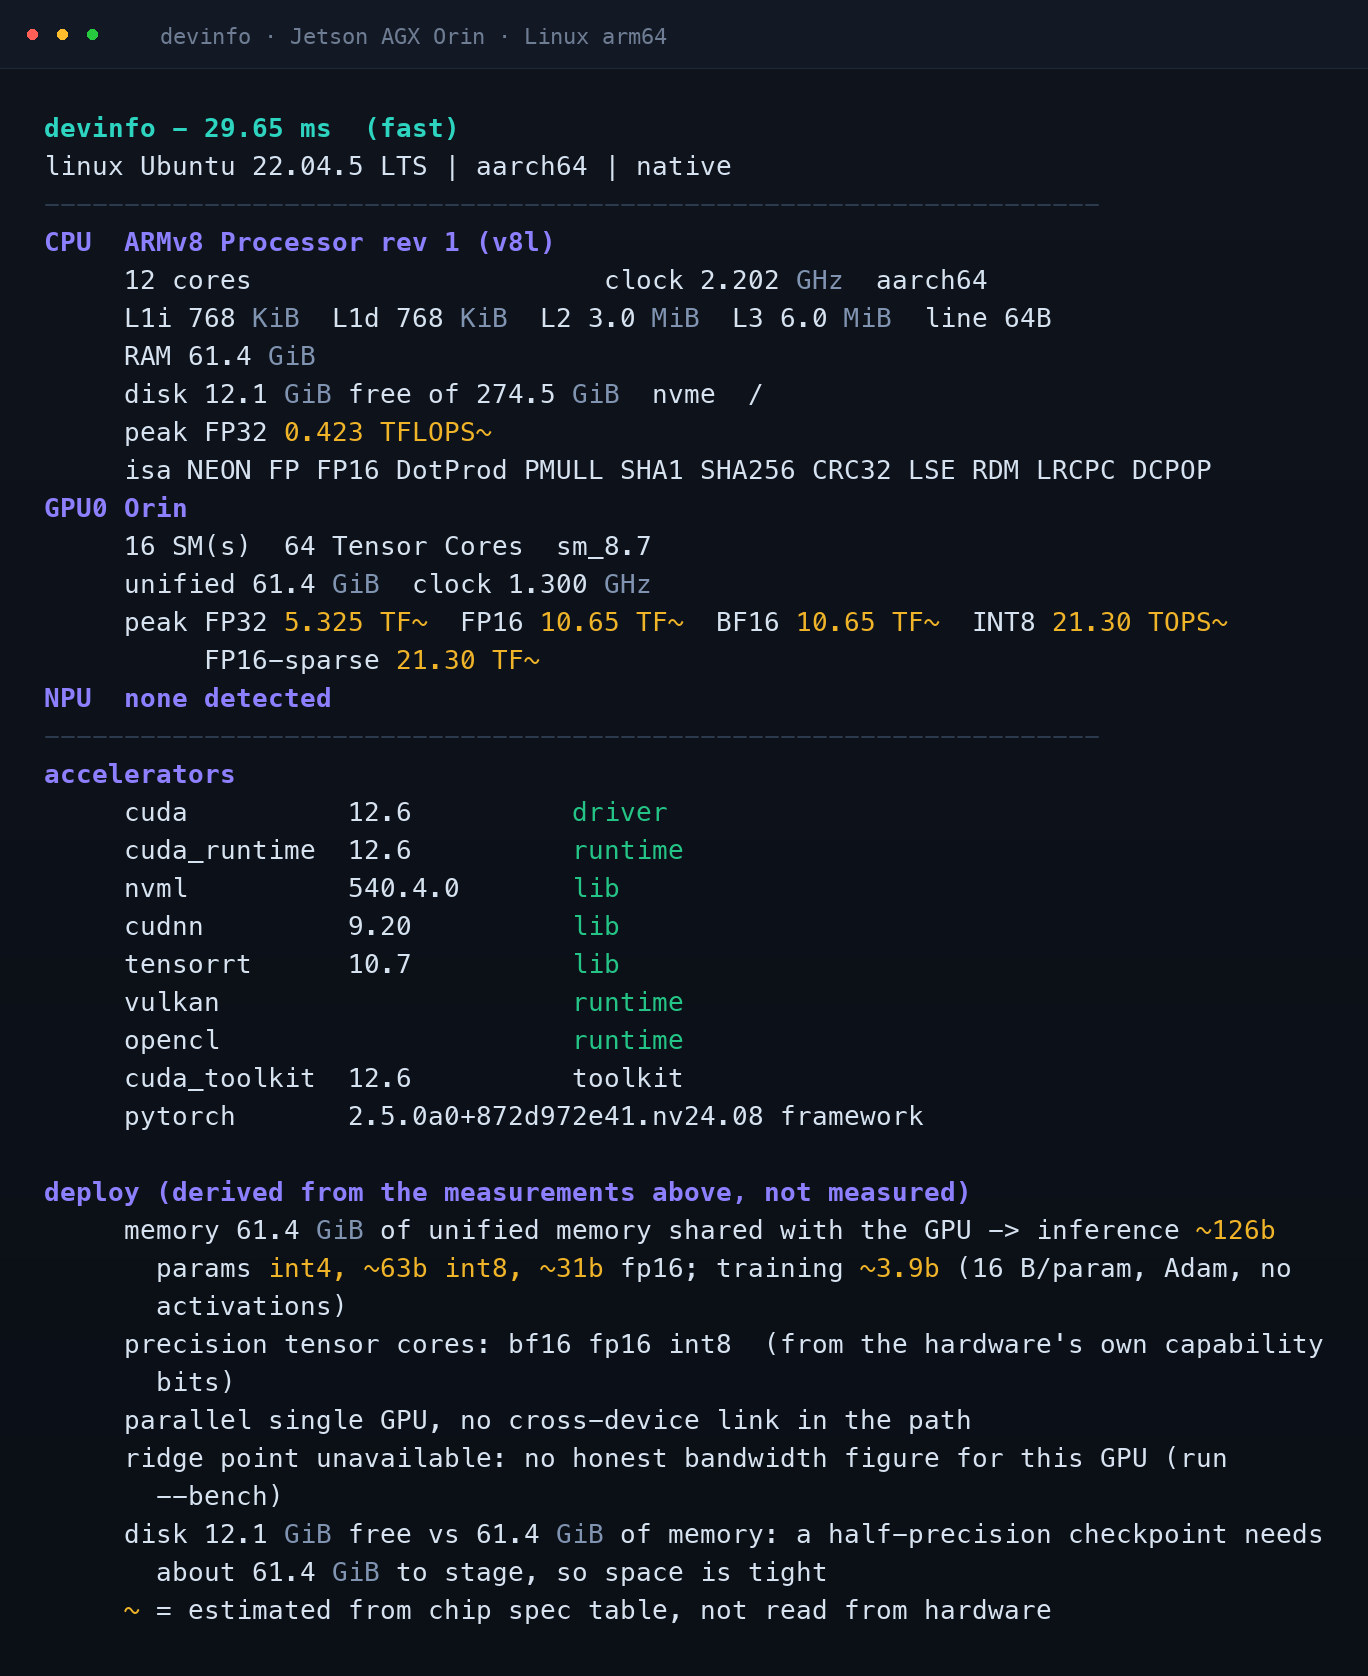
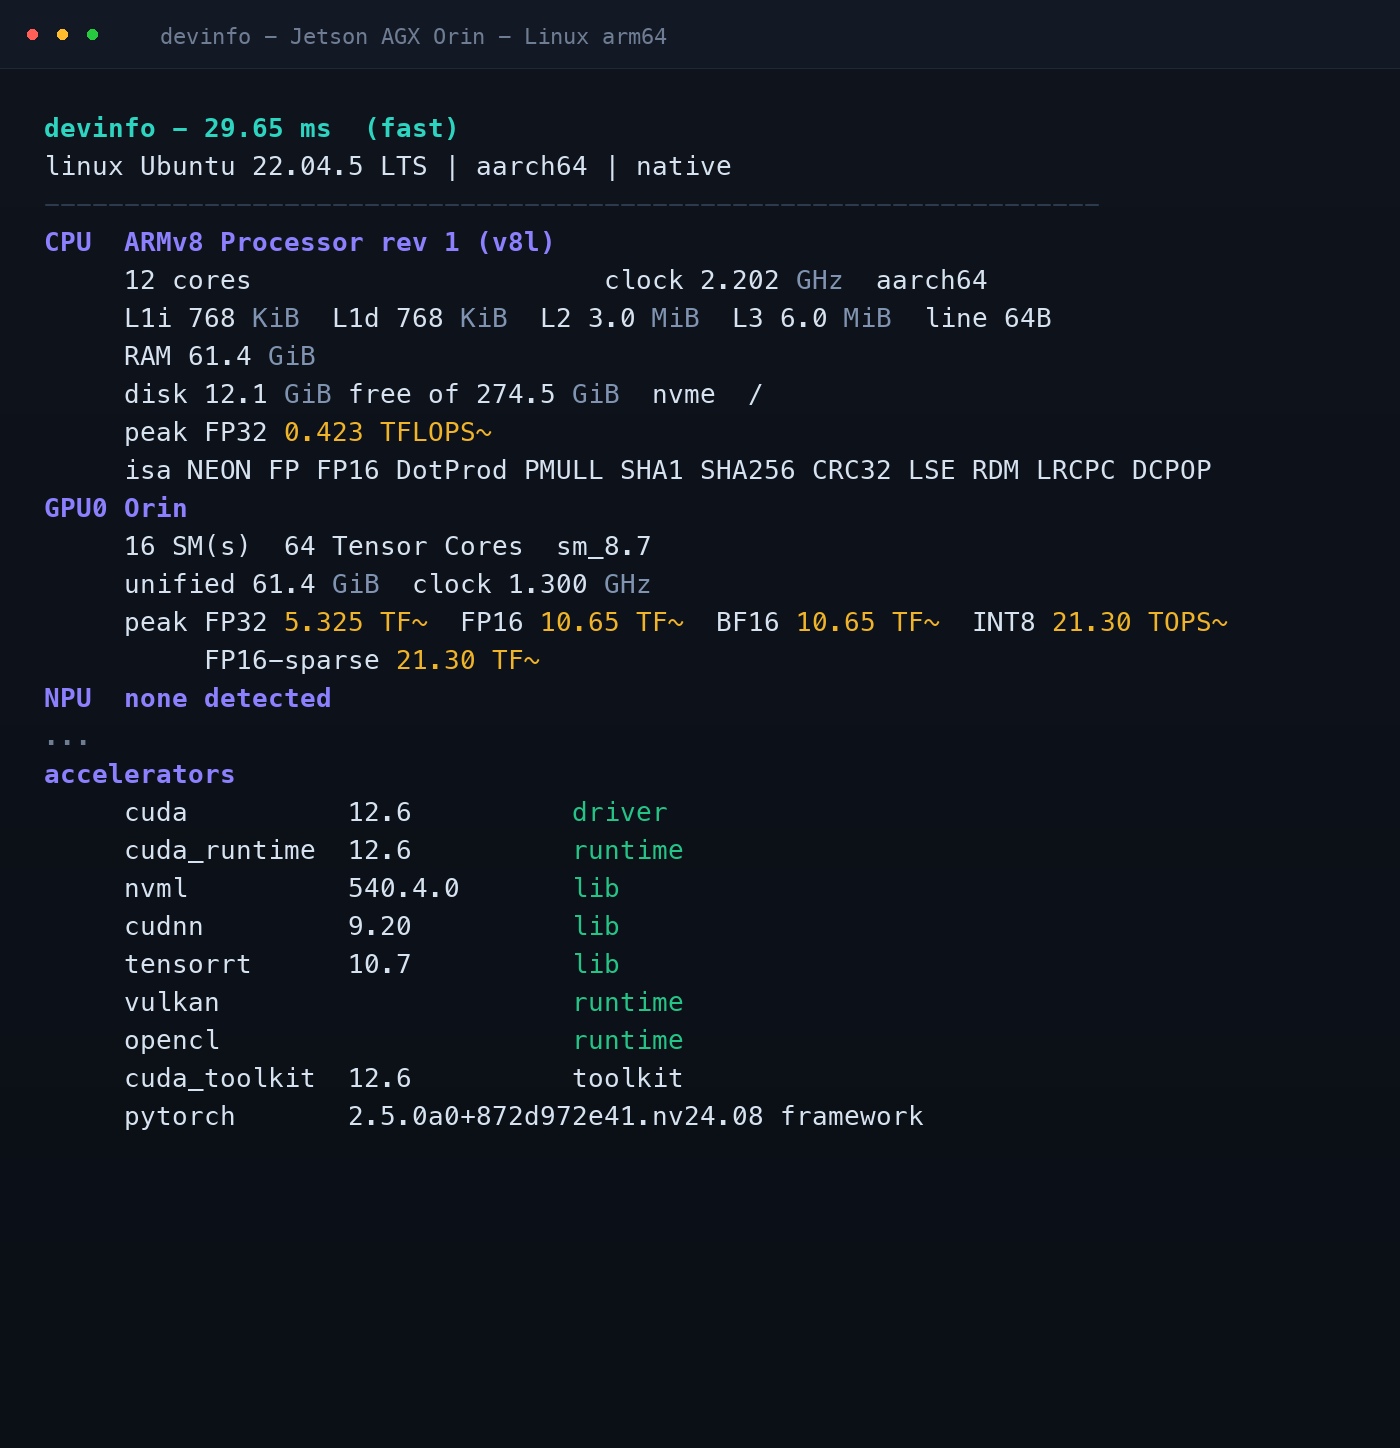
docs: three platform cards, one image size, and a Windows frame
The README led with a text table of the three platforms. It now leads with
three cards, each carrying the machine's own output above a line about how
that platform is read and what it needs installed.

Every image is 1400x1448: the renderer paints onto a fixed canvas (82
columns by 34 lines) instead of sizing the window to the text, so the cards
line up instead of running 1372px tall next to 2930px. Captures longer than
the canvas are cut with a drawn "..." row rather than silently stitched, and
the elided ranges are named in tools/render_shots.py.

There was no Windows image, and no Windows host or Wine here to make one.
assets/captures/windows-i7.txt is the report the binary wrote on a Dell
OptiPlex 7090, recovered from git history - real output, but from the first
round, before the six fixes results.html lists: it still labels amdhip64.dll
as "rocm" where src/core.cpp now emits "hip", and misses SSE4.2. That box
has not been re-tested, so the frame is used and labelled under the cards,
not quietly replaced or quietly dropped.

The Jetson frame stays out of the README - four machines in a three-card row
is a worse read - but the site keeps it, and the site gains the Windows tab
and the screenshot its OptiPlex record never had.

diff --git a/site/index.html b/site/index.html
@@ -121,7 +121,7 @@
   <section class="section wrap" id="output">
     <div class="section-head reveal">
       <span class="eyebrow">REAL OUTPUT</span>
-      <h2 data-zh="真实运行截图，来自三台不同架构的机器" data-en="Real output, from three different architectures"></h2>
+      <h2 data-zh="真实运行截图，来自四台真机" data-en="Real output, from four real machines"></h2>
       <p data-zh="下面每一张都是程序真实 stdout 的渲染，文字逐字节来自采集文件，没有手写内容。带 ~ 的数字是推算值，统一标成琥珀色。" data-en="Each frame below is a render of real stdout, byte for byte from the captured file -- nothing is hand-written. Derived numbers carry a ~ and are painted amber."></p>
     </div>
     <div class="screen-tabs reveal">
@@ -134,6 +134,9 @@
       <button data-screen="assets/jetson-orin.png" data-url="Jetson AGX Orin · Linux arm64"
         data-caption-zh="Jetson AGX Orin · 12 核 · 16 SM / 64 Tensor Core · 统一内存 61 GiB" data-caption-en="Jetson AGX Orin · 12 cores · 16 SM / 64 tensor cores · 61 GiB unified"
         data-zh="Jetson · Orin" data-en="Jetson · Orin"></button>
+      <button data-screen="assets/windows-i7.png" data-url="Dell OptiPlex 7090 · Windows 11 · x86_64"
+        data-caption-zh="Dell OptiPlex 7090 · i7-11700 8C/16T · RX 640 + UHD 750 · 第一轮输出，修复前" data-caption-en="Dell OptiPlex 7090 · i7-11700 8C/16T · RX 640 + UHD 750 · first round, before the fixes"
+        data-zh="Windows · i7" data-en="Windows · i7"></button>
     </div>
     <div class="screen-stage reveal delay-1">
       <div class="term-shot">

diff --git a/site/results.html b/site/results.html
@@ -346,7 +346,11 @@ deploy (derived from the measurements above, not measured)
 <div><dt>加速栈</dt><dd>AMD HIP 5.2（amdhip64.dll）· 无 CUDA</dd></div></dl>
         <div class="machine-side">
           <div class="deploy-box"><h3>部署推导（derive，不是实测）</h3><dl class="facts small"><div><dt>异构 GPU</dt><dd>两张不同型号的卡不能合并成内存池，各自跑各自的作业</dd></div></dl></div>
-          
+
+      <figure class="shot-figure">
+        <button class="shot" data-full="assets/windows-i7.png"><img src="assets/windows-i7.png" alt="devinfo on the Dell OptiPlex 7090" loading="lazy"></button>
+        <figcaption>第一轮输出渲染 · 修复前 · 点击放大</figcaption>
+      </figure>
         </div>
       </div>
       <p class="machine-note">这台机器跑出了第一轮实机测试里的六个问题，全部已修：SSE4.2 漏报、CPU 峰值只有一半、异构显存被错误加总、训练容量显示 ~0b、异构并行措辞、HIP 被误标成 ROCm 版本号。修复后尚未在这台机器上复测——这一格留空，不填推测值。</p>

diff --git a/tools/render_shots.py b/tools/render_shots.py
@@ -5,6 +5,27 @@ The text is the real stdout of the binary, byte for byte -- this script only
 paints it. Anything that is not in the capture file does not appear in the
 image, so the screenshots cannot drift away from what the tool prints.
 
+Where the captures came from:
+
+  macos-m5.txt      Apple M5, macOS 26.6, arm64, this laptop
+  linux-8x4090.txt  2x EPYC 7402 + 8x RTX 4090, Ubuntu 22.04, x86_64
+  jetson-orin.txt   Jetson AGX Orin 64GB, L4T R36.4, aarch64
+  windows-i7.txt    i7-11700, Windows 10.0.26200, x86_64. This one was
+                    recovered from git history: it is the report the binary
+                    wrote to devinfo-report.txt when it was double-clicked on
+                    that machine, not a transcription.
+
+                    It is the FIRST round of testing on that machine, before
+                    the six fixes results.html lists, and it shows two of them:
+                    amdhip64.dll is still labelled "rocm" there, and SSE4.1 /
+                    SSE4.2 are missing from the ISA line. src/core.cpp now
+                    emits "hip". The frame is kept because that box has not
+                    been re-tested, and the README says so under the cards.
+
+Every image is the same size, so the README cards line up. Long captures are
+cut with a visible "..." row; the cut is drawn, not hidden, and the elided
+range is named in JOBS below.
+
     python3 tools/render_shots.py
 
 Reads  assets/captures/*.txt
@@ -25,6 +46,8 @@ FSIZE = 13
 PAD = 22
 TITLEBAR = 34
 LINE_H = 19
+LINES = 34           # fixed content height, in lines, for every image
+COLS = 82            # fixed content width, in characters
 
 BG = (11, 15, 22)
 BG_TOP = (15, 20, 29)
@@ -50,6 +73,8 @@ def load_font(size, bold=False):
 def classify(line):
     """Return (kind, text) where kind drives the base colour of the line."""
     s = line.rstrip("\n")
+    if s.strip() == "...":
+        return "cut", s
     if not s.strip():
         return "blank", s
     if re.match(r"^devinfo - ", s):
@@ -63,8 +88,6 @@ def classify(line):
         return "head", s
     if s.lstrip().startswith("-- not present"):
         return "absent", s
-    if re.match(r"^\s+\w", s) or s.startswith("     "):
-        return "body", s
     return "body", s
 
 
@@ -76,7 +99,7 @@ UNIT = re.compile(
 )
 
 
-def draw_line(d, x, y, text, kind, f_reg, f_bold, width):
+def draw_line(d, x, y, text, kind, f_reg, f_bold):
     base = {
         "banner": TEAL,
         "rule": (45, 58, 78),
@@ -84,13 +107,11 @@ def draw_line(d, x, y, text, kind, f_reg, f_bold, width):
         "absent": RED,
         "body": FG,
         "blank": FG,
+        "cut": DIM,
     }.get(kind, FG)
 
-    if kind == "head":
-        d.text((x, y), text, font=f_bold, fill=ACCENT)
-        return
-    if kind == "banner":
-        d.text((x, y), text, font=f_bold, fill=TEAL)
+    if kind in ("head", "banner", "cut"):
+        d.text((x, y), text, font=f_bold if kind != "cut" else f_reg, fill=base)
         return
 
     # Per-token colouring. The tool marks every derived number with a trailing
@@ -127,22 +148,38 @@ def draw_line(d, x, y, text, kind, f_reg, f_bold, width):
         cx += d.textlength(tok, font=f_reg)
 
 
-def render(src: pathlib.Path, title: str, out: pathlib.Path, max_lines=None):
-    raw = src.read_text(encoding="utf-8", errors="replace").splitlines()
-    raw = [ln for ln in raw if not ln.startswith("bash: warning:")]
-    if max_lines and len(raw) > max_lines:
-        raw = raw[:max_lines]
+def select(lines, keep):
+    """Apply the keep ranges, inserting a visible cut between them.
+
+    keep is a list of (first, last) 1-based inclusive ranges, or None for the
+    whole capture. Cutting is an editorial act, so it is drawn as "..." rather
+    than silently stitched together.
+    """
+    if not keep:
+        return lines[:LINES]
+    out = []
+    for n, (a, b) in enumerate(keep):
+        if n:
+            out.append("...")
+        out.extend(lines[a - 1:b])
+    return out[:LINES]
+
+
+def render(src, title, out, chrome="mac", keep=None):
+    raw = [ln for ln in src.read_text(encoding="utf-8", errors="replace").splitlines()
+           if not ln.startswith("bash: warning:")]
+    raw = select(raw, keep)
 
     f_reg = load_font(FSIZE * SCALE)
     f_bold = load_font(FSIZE * SCALE, bold=True)
     f_title = load_font((FSIZE - 2) * SCALE)
 
+    # Fixed canvas: the widest line of the widest capture, and exactly LINES
+    # rows of text, so every card in the README is the same picture size.
     probe = ImageDraw.Draw(Image.new("RGB", (10, 10)))
-    text_w = max(probe.textlength(ln, font=f_reg) for ln in raw) if raw else 400
-    win_w = int(text_w) + PAD * 2 * SCALE
-    win_w = max(win_w, int(probe.textlength(title, font=f_reg)) + PAD * 2 * SCALE)
-    body_h = len(raw) * LINE_H * SCALE
-    win_h = TITLEBAR * SCALE + PAD * SCALE + body_h + PAD * SCALE
+    char_w = probe.textlength("M" * COLS, font=f_reg)
+    win_w = int(char_w) + PAD * 2 * SCALE
+    win_h = TITLEBAR * SCALE + PAD * SCALE * 2 + LINES * LINE_H * SCALE
 
     img = Image.new("RGB", (win_w, win_h), BG)
     d = ImageDraw.Draw(img)
@@ -154,38 +191,48 @@ def render(src: pathlib.Path, title: str, out: pathlib.Path, max_lines=None):
 
     d.rectangle([0, 0, win_w - 1, TITLEBAR * SCALE], fill=(19, 25, 36))
     cy = TITLEBAR * SCALE // 2
-    r = 5 * SCALE // 2
-    for i, col in enumerate([(255, 95, 86), (255, 189, 46), (39, 201, 63)]):
-        cxx = (16 + i * 15) * SCALE
-        d.ellipse([cxx - r, cy - r, cxx + r, cy + r], fill=col)
+    if chrome == "mac":
+        r = 5 * SCALE // 2
+        for i, col in enumerate([(255, 95, 86), (255, 189, 46), (39, 201, 63)]):
+            cxx = (16 + i * 15) * SCALE
+            d.ellipse([cxx - r, cy - r, cxx + r, cy + r], fill=col)
+    else:
+        # Windows: minimise, maximise, close, right-aligned.
+        r = 5 * SCALE // 2
+        for i, col in enumerate([(120, 134, 156), (120, 134, 156), (196, 43, 28)]):
+            cxx = win_w - (58 - i * 18) * SCALE // 2
+            d.rectangle([cxx - r, cy - r, cxx + r, cy + r], fill=col)
     d.text((80 * SCALE, cy - (FSIZE - 2) * SCALE // 2), title, font=f_title, fill=DIM)
     d.line([(0, TITLEBAR * SCALE), (win_w, TITLEBAR * SCALE)], fill=(30, 40, 55))
 
     y = TITLEBAR * SCALE + PAD * SCALE
     for ln in raw:
         kind, text = classify(ln)
-        draw_line(d, PAD * SCALE, y, text, kind, f_reg, f_bold, win_w)
+        draw_line(d, PAD * SCALE, y, text, kind, f_reg, f_bold)
         y += LINE_H * SCALE
 
     out.parent.mkdir(parents=True, exist_ok=True)
     img.save(out)
-    print(f"{out.relative_to(ROOT)}  {img.width}x{img.height}  {len(raw)} lines")
+    print(f"{out.relative_to(ROOT)}  {img.width}x{img.height}  {len(raw)} lines  {title}")
 
 
 def main():
     jobs = [
-        ("macos-m5.txt", "devinfo · Apple M5 · macOS", "macos-m5.png"),
-        ("linux-8x4090.txt", "devinfo · 2x EPYC 7402 + 8x RTX 4090 · Linux", "linux-8x4090.png"),
-        ("jetson-orin.txt", "devinfo · Jetson AGX Orin · Linux arm64", "jetson-orin.png"),
+        ("macos-m5.txt", "devinfo - Apple M5 - macOS", "macos-m5.png", "mac", None),
+        ("linux-8x4090.txt", "devinfo - 8x RTX 4090 - Linux", "linux-8x4090.png", "mac",
+         [(1, 17), (53, 62)]),
+        ("windows-i7.txt", "devinfo - i7-11700 - Windows", "windows-i7.png", "win", None),
+        ("jetson-orin.txt", "devinfo - Jetson AGX Orin - Linux arm64", "jetson-orin.png", "mac",
+         [(1, 16), (18, 28)]),
     ]
     if not CAPS.exists():
         sys.exit(f"missing {CAPS}")
-    for src, title, dst in jobs:
+    for src, title, dst, chrome, keep in jobs:
         p = CAPS / src
         if not p.exists():
             print(f"skip {src}: not captured")
             continue
-        render(p, title, OUT / dst)
+        render(p, title, OUT / dst, chrome, keep)
 
 
 if __name__ == "__main__":

diff --git a/README_zh.md b/README_zh.md
@@ -20,15 +20,29 @@
 
 ## 🖥 三个平台，一个二进制
 
-同一个程序、同样的输出，不需要按平台挑版本：
+<table>
+<tr>
+<td width="33%" valign="top">
+<p align="center"><b>macOS</b><br><sub>11+ &middot; Apple Silicon 与 Intel &middot; 同一个 universal 二进制</sub></p>
+<p align="center"><img src="site/assets/macos-m5.png" width="340" alt="devinfo 在 Apple M5 上"></p>
+<p><sub><code>sysctl</code> 与 IOKit 读拓扑、缓存和带宽，Metal 读 GPU，ANE 核心数从系统拿。不需要装任何东西。</sub></p>
+</td>
+<td width="33%" valign="top">
+<p align="center"><b>Linux</b><br><sub>x86_64 与 aarch64 &middot; 容器里也能跑</sub></p>
+<p align="center"><img src="site/assets/linux-8x4090.png" width="340" alt="devinfo 在 8 张 RTX 4090 上"></p>
+<p><sub>sysfs 与 procfs、NUMA、<code>cpufreq</code>、cgroup 限额；通过 <code>dlopen</code> 调 CUDA 驱动 API；PCIe 走 sysfs。不用 root，不用装任何东西。</sub></p>
+</td>
+<td width="33%" valign="top">
+<p align="center"><b>Windows</b><br><sub>10 与 11 &middot; x64 与 x86</sub></p>
+<p align="center"><img src="site/assets/windows-i7.png" width="340" alt="devinfo 在 i7-11700 上"></p>
+<p><sub>CPUID 读核心与指令集，DXGI 读显卡与显存，SetupAPI 读 NPU，NVML 补 NVIDIA 细节。一个 <code>.exe</code>，无运行时、无安装包。</sub></p>
+</td>
+</tr>
+</table>
 
-| | 在哪读 | 机器需要什么 |
-|---|---|---|
-| **Windows** 10/11<br>x64 · x86 | CPUID 读核心与指令集；DXGI 读显卡与显存；SetupAPI 读 NPU；NVML 补 NVIDIA 细节；电源接口读基础频率 | 什么都不需要——一个 `.exe`，无运行时、无安装包、不用在旁边放 DLL |
-| **macOS** 11+<br>Apple Silicon **和** Intel | `sysctl` + IOKit 读拓扑、缓存与带宽；Metal 读 GPU；ANE 核心数 | 什么都不需要 |
-| **Linux**<br>x86_64 · aarch64 | sysfs/procfs、NUMA、`cpufreq`、cgroup 限额；通过 `dlopen` 调 CUDA 驱动 API；PCIe 走 sysfs | 什么都不需要——不用 root，容器里也行 |
+同样的输出、同样的 JSON：不用按平台挑版本，不启子进程，不走 WMI，不在机器上装厂商 SDK，不要管理员权限。国产芯片——鲲鹏、飞腾、龙芯、兆芯——走同一套代码路径，Jetson Orin 也只是台普通的 aarch64 Linux。
 
-不启子进程、不走 WMI、不在机器上装厂商 SDK、不要管理员权限。国产芯片——鲲鹏、飞腾、龙芯、兆芯——走同一套代码路径，Jetson Orin 也只是台普通的 aarch64 Linux。
+<sub>Windows 那张是那台机器**第一轮**测试的截图，早于 [results.html](https://zhipingwoods.github.io/devinfo/results.html) 里列出的六个修复：图里还把 `amdhip64.dll` 标成 "rocm"，ISA 里缺 SSE4.2。那台机器修复后没有复测，所以这张图保留并标注，而不是换成一张好看但不真实的。</sub>
 
 ## ⬇ 下载
 
@@ -96,33 +110,6 @@ deploy (derived from the measurements above, not measured)
 ```
 
 带 `~` 的数字是**从芯片规格表推算的**，不是从硬件读的，JSON 里对应 `estimated` 数组。没有任何数字是凭空填的。
-
-## 🖼 输出预览
-
-| Apple M5 · macOS arm64 | Jetson AGX Orin · Linux aarch64 |
-|:---:|:---:|
-| ![M5](site/assets/macos-m5.png) | ![Orin](site/assets/jetson-orin.png) |
-
-| 2× EPYC 7402 + 8× RTX 4090 · Linux x86_64 |
-|:---:|
-| ![8x4090](site/assets/linux-8x4090.png) |
-
-图中带 `~` 的数字是**从芯片规格表推算的**，不是从硬件读出来的，统一显示为琥珀色。没有任何数字是凭空填的。
-
-### 静态展示页
-
-在线版：**[zhipingwoods.github.io/devinfo](https://zhipingwoods.github.io/devinfo/)**　·　实测记录页：[results.html](https://zhipingwoods.github.io/devinfo/results.html)
-
-站点源码在 `site/`，不依赖任何 CDN：`site/index.html` 是产品页，`site/results.html` 是四台真实机器的实测记录（由 `tools/build_results.py` 从 `assets/captures/*.txt` 生成，原始输出逐字节注入，不会和程序实际打印的内容脱节）。
-
-本地直接打开：
-
-```bash
-python3 -m http.server 19090 --directory site
-# 打开 http://127.0.0.1:19090/
-```
-
-纯静态，没有构建步骤。线上的那份由 `gh-pages` 分支提供（站点在分支根目录），经 GitHub Pages 发布。
 
 ## 📝 简介
 

diff --git a/README.md b/README.md
@@ -20,15 +20,29 @@
 
 ## 🖥 Three platforms, one binary
 
-Same program, same output, no per-platform build to pick:
+<table>
+<tr>
+<td width="33%" valign="top">
+<p align="center"><b>macOS</b><br><sub>11+ &middot; Apple Silicon and Intel &middot; one universal binary</sub></p>
+<p align="center"><img src="site/assets/macos-m5.png" width="340" alt="devinfo on an Apple M5"></p>
+<p><sub><code>sysctl</code> and IOKit read topology, caches and bandwidth; Metal reads the GPU; the ANE core count comes from the OS. Nothing to install.</sub></p>
+</td>
+<td width="33%" valign="top">
+<p align="center"><b>Linux</b><br><sub>x86_64 and aarch64 &middot; containers included</sub></p>
+<p align="center"><img src="site/assets/linux-8x4090.png" width="340" alt="devinfo on 8x RTX 4090"></p>
+<p><sub>sysfs and procfs, NUMA, <code>cpufreq</code>, cgroup limits; the CUDA driver API through <code>dlopen</code>; PCIe through sysfs. No root, nothing to install.</sub></p>
+</td>
+<td width="33%" valign="top">
+<p align="center"><b>Windows</b><br><sub>10 and 11 &middot; x64 and x86</sub></p>
+<p align="center"><img src="site/assets/windows-i7.png" width="340" alt="devinfo on an i7-11700"></p>
+<p><sub>CPUID for cores and ISA, DXGI for adapters and VRAM, SetupAPI for NPUs, NVML for NVIDIA detail. One <code>.exe</code>, no runtime, no installer.</sub></p>
+</td>
+</tr>
+</table>
 
-| | What it reads there | What the machine needs |
-|---|---|---|
-| **Windows** 10/11<br>x64 · x86 | CPUID for cores and ISA; DXGI for adapters and VRAM; SetupAPI for NPUs; NVML for NVIDIA detail; the power API for base clock | nothing — one `.exe`, no runtime, no installer, no DLL to copy next to it |
-| **macOS** 11+<br>Apple Silicon **and** Intel | `sysctl` + IOKit for topology, caches and bandwidth; Metal for the GPU; the ANE core count | nothing |
-| **Linux**<br>x86_64 · aarch64 | sysfs/procfs, NUMA, `cpufreq`, cgroup limits; the CUDA driver API through `dlopen`; PCIe through sysfs | nothing — no root, containers included |
+Same output, same JSON on all three: no per-platform build to pick, no subprocess, no WMI, no vendor SDK on the box, no admin rights. Domestic parts - Kunpeng, Phytium, Loongson, Zhaoxin - go down the same code paths, and a Jetson Orin is just another aarch64 Linux box.
 
-No subprocess, no WMI, no vendor SDK on the box, no admin rights. Domestic parts — Kunpeng, Phytium, Loongson, Zhaoxin — go down the same code paths, and a Jetson Orin is just another aarch64 Linux box.
+<sub>The Windows frame is the first round of testing on that machine, before the six fixes [results.html](https://zhipingwoods.github.io/devinfo/results.html) lists: it still labels `amdhip64.dll` as "rocm" and misses SSE4.2. That box has not been re-tested, so the frame is labelled rather than replaced.</sub>
 
 ## ⬇ Download
 
@@ -96,33 +110,6 @@ deploy (derived from the measurements above, not measured)
 ```
 
 Numbers marked `~` are derived from a chip spec table rather than read from the hardware; the JSON lists them in an `estimated` array. Nothing is filled in.
-
-## 🖼 Output
-
-| Apple M5 · macOS arm64 | Jetson AGX Orin · Linux aarch64 |
-|:---:|:---:|
-| ![M5](site/assets/macos-m5.png) | ![Orin](site/assets/jetson-orin.png) |
-
-| 2× EPYC 7402 + 8× RTX 4090 · Linux x86_64 |
-|:---:|
-| ![8x4090](site/assets/linux-8x4090.png) |
-
-Numbers marked `~` are **derived from a chip spec table**, not read from the hardware, and are rendered in amber. Nothing is filled in.
-
-### Static site
-
-Live: **[zhipingwoods.github.io/devinfo](https://zhipingwoods.github.io/devinfo/)**　·　measured records: [results.html](https://zhipingwoods.github.io/devinfo/results.html)
-
-The source lives in `site/` with no CDN dependency: `site/index.html` is the product page, `site/results.html` the measured record for four real machines. The raw-output blocks are generated by `tools/build_results.py` straight from `assets/captures/*.txt`, so the page cannot drift from what the binary actually printed.
-
-Open it locally:
-
-```bash
-python3 -m http.server 19090 --directory site
-# open http://127.0.0.1:19090/
-```
-
-Nothing to build. The published copy is served from the `gh-pages` branch (site at the branch root) through GitHub Pages.
 
 ## 📝 What it is
 
